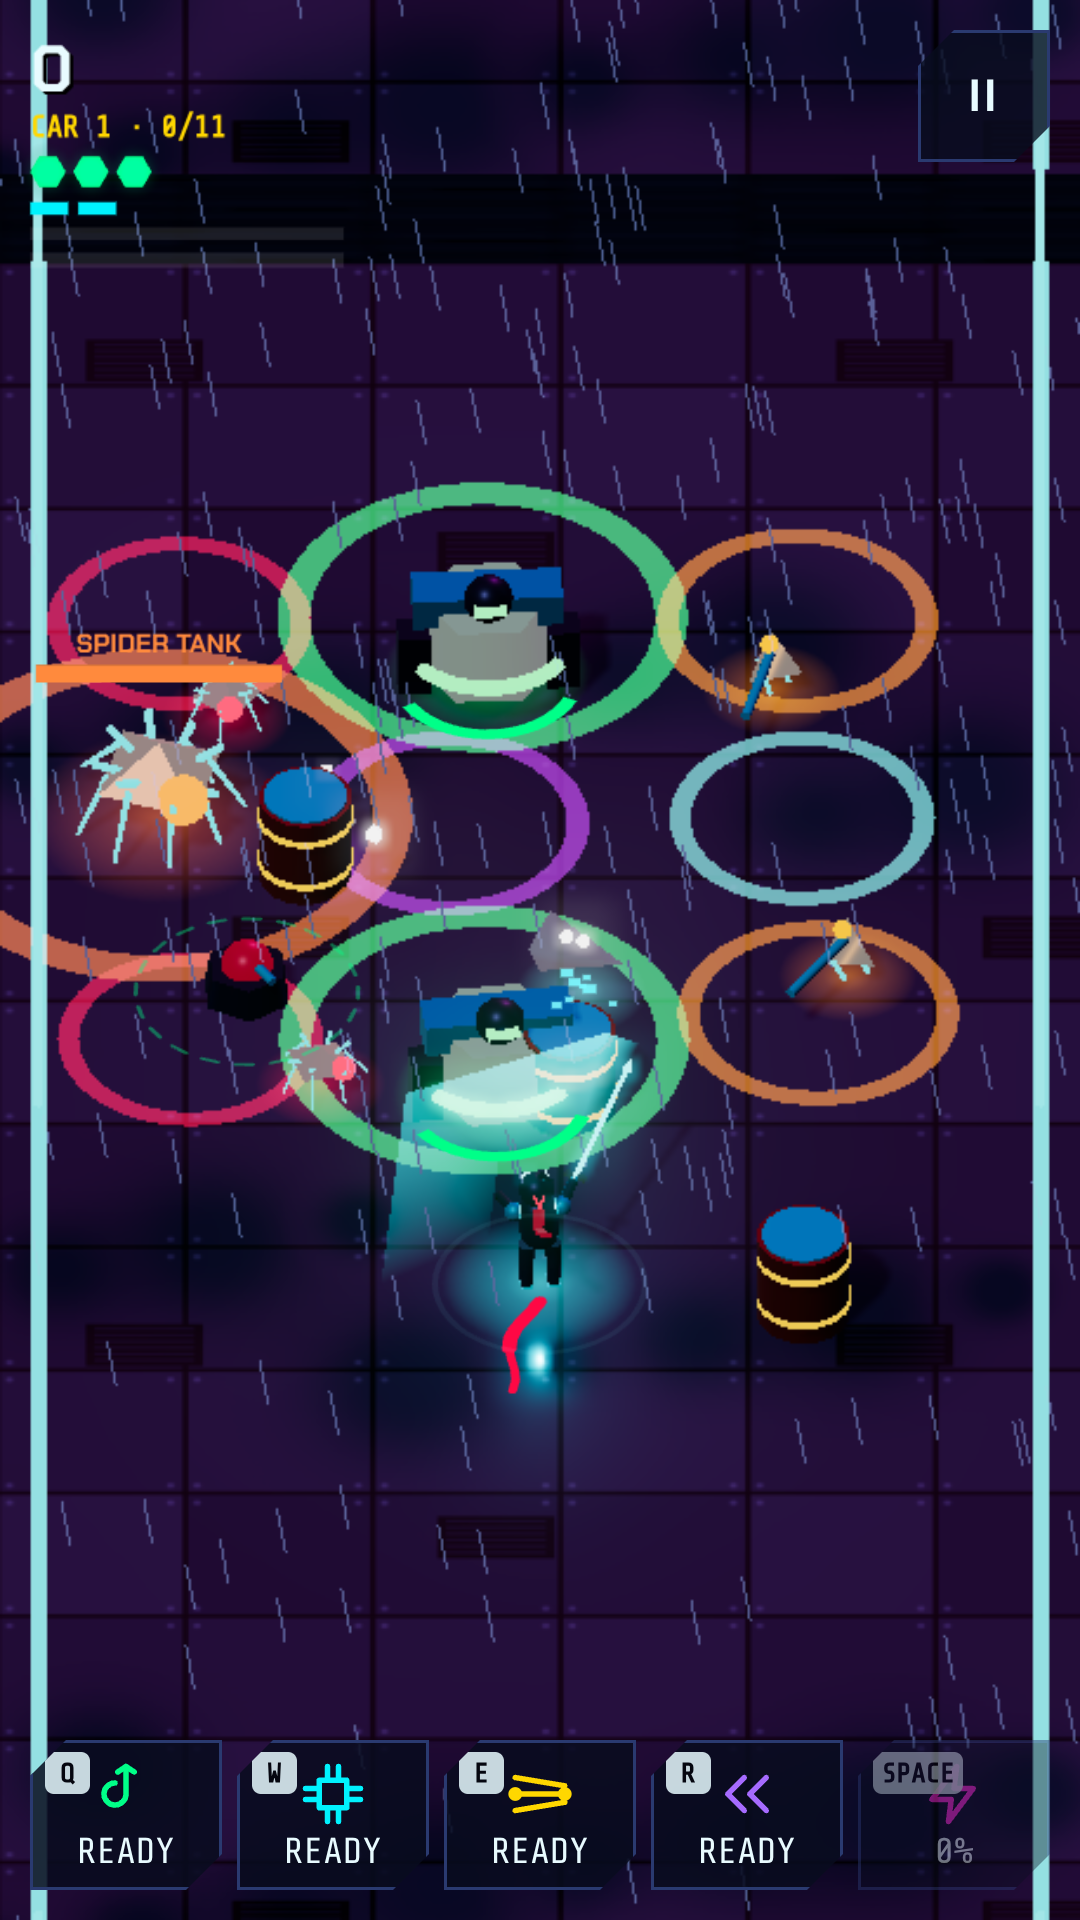
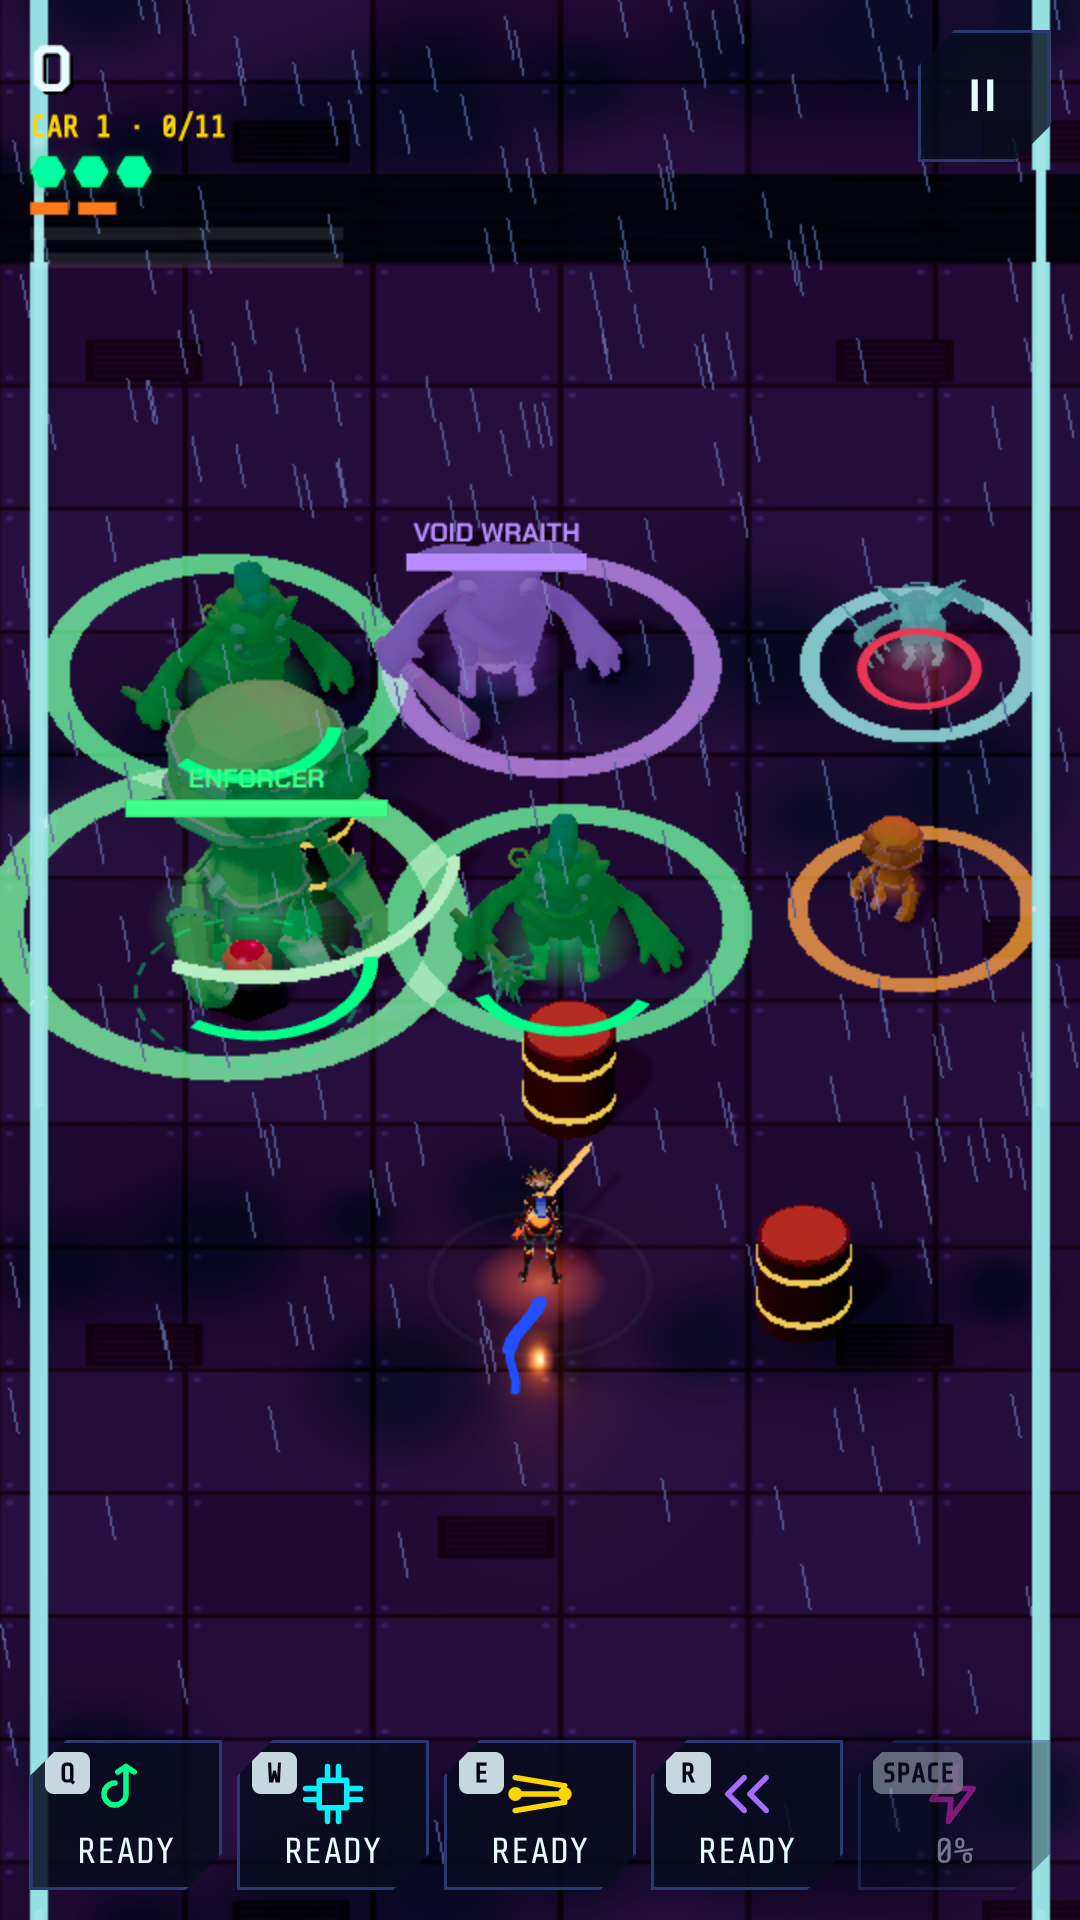
Store kit: new 3D screenshots (monsters, boss, Hero Forge), text for elements and accessibility
Claude-Session: https://claude.ai/code/session_01LtqxG3PXPHBet7ACCVm9dp

diff --git a/docs/STORE.md b/docs/STORE.md
@@ -3,7 +3,7 @@
 Ready-to-paste text for itch.io, Steam or any store page. Hebrew below the English.
 
 ## Short description (≤ 300 characters)
-A neon cyberpunk ninja action game. Dash, slash and parry across the rooftops of Neo-Edo: 8 story acts, 20+ bosses, rogue-lite and arcade modes, 30 weapons, dozens of heroes, 2D or 3D graphics, up to 480 Hz, controller support.
+A neon cyberpunk ninja action game. Dash, slash and parry across the rooftops of Neo-Edo with real animated 3D heroes: 8 story acts, 20+ bosses, elemental reactions, rogue-lite and arcade modes, 30+ weapons, dozens of heroes, up to 480 Hz, controller support.
 
 ## Long description
 **Every dash is a cut.** Aim, release, and your blade crosses the roof in a blink. Chain kills, bounce off the rails for guaranteed criticals, slash bullets back at the snipers and finish staggered bosses with Zandatsu strikes.
@@ -11,22 +11,24 @@ A neon cyberpunk ninja action game. Dash, slash and parry across the rooftops of
 - **8 story acts, 70+ stages** with voiced dialogue, comic pages between chapters and a secret EX chapter
 - **20+ bosses**, each with its own entrance, phases and fall
 - **Arcade:** endless Maglev Run, boss rush, the Neon Tower rogue-lite, a highway chase, daily and weekly challenges, puzzles and a training dojo
-- **Arsenal:** 30 weapons that each swing their own way, dozens of heroes, blade skins and pets
+- **Real 3D fighters:** motion-captured heroes with recorded sword combos, animated oni, demons and robots, cinematic crates where the seals tell you the rarity
+- **Elements:** fire, frost, volt and venom; mix two on one enemy for MELT, OVERLOAD, SUPERCONDUCT, TOXIC FLARE, SHATTER or PARALYSIS
+- **Arsenal:** 30+ weapons that each swing their own way, dozens of heroes, blade skins and pets
 - **Made for PC and phone:** mouse aim at the cursor, rebindable keys, controllers with rumble, 120–480 Hz smooth motion, a wide roof on desktop, or touch controls on a phone
-- **2D or 3D**, accessibility options (calm effects, colorblind colors, high-contrast enemies, assist mode), English, Hebrew, Arabic and Russian
+- **2D or 3D**, accessibility options (calm effects, colorblind colors, high-contrast enemies, assist mode, text size, keyboard-only menus), English, Hebrew, Arabic and Russian
 
 ## Tags
 Action · Hack and Slash · Cyberpunk · Ninja · Roguelite · Arcade · Boss Rush · Singleplayer · Controller · Neon
 
-## Ready-made images (version 48) — in [`docs/store/`](store)
+## Ready-made images (screens 1–4 from version 68, 5–7 from version 48) — in [`docs/store/`](store)
 Phone screenshots at 1080×1920 (Google Play and the App Store accept this size) and a 1024×500 feature graphic for Google Play:
 
 | File | What it shows |
 |---|---|
 | `1_home.png` | The home screen: rank strip, story card and the nav bar |
-| `2_fight_3d.png` | A 3D fight on the train roof |
+| `2_fight_3d.png` | A 3D fight: the orc brutes, a void wraith and the robots |
 | `3_boss_3d.png` | A 3D boss fight (SHOGUN.EXE) with a perfect parry |
-| `4_hero_forge.png` | The Hero Forge: classes, abilities and the weapon workshop |
+| `4_hero_forge.png` | The Hero Forge: the 3D hero, classes and abilities |
 | `5_journey.png` | Your Journey: rank, completion and goals |
 | `6_crates.png` | The three crates with their odds |
 | `7_legendary_crate.png` | A legendary crate film: the giant ninja cuts a truck in half |
